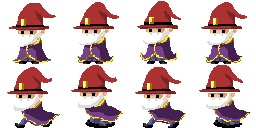
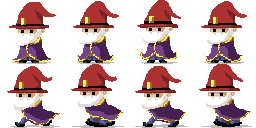
Added Mouse tracking. Updated some sprites.

diff --git a/src/main.c b/src/main.c
@@ -39,6 +39,7 @@ int main(int argc, char** argv) {
     /* Initialize everything */
     assert(al_init());                  /* Allegro environment */
     assert(al_install_keyboard());      /* Install Keyboard */
+    assert(al_install_mouse());         /* Install Mouse */
     assert(al_init_primitives_addon()); /* Initialize Primatives */
     assert(al_init_image_addon());      /* Initialize Image Library */
 
@@ -70,7 +71,15 @@ int main(int argc, char** argv) {
     unsigned char key[ALLEGRO_KEY_MAX];
     memset(key, 0, sizeof(key));
 
+    /* Mouse Stuff */
+    int mouseX = 0;
+    int mouseY = 0;
+    ALLEGRO_MOUSE_CURSOR* cursor  = al_create_mouse_cursor(al_load_bitmap("../assets/crosshair.png"), 0, 0);
+    al_set_mouse_cursor(disp, cursor);
+
+
     al_register_event_source(queue, al_get_keyboard_event_source());
+    al_register_event_source(queue, al_get_mouse_event_source());
     al_register_event_source(queue, al_get_display_event_source(disp));
     al_register_event_source(queue, al_get_timer_event_source(timer));
 
@@ -155,6 +164,10 @@ int main(int argc, char** argv) {
 
                 redraw = true;
                 break;
+            case ALLEGRO_EVENT_MOUSE_AXES:
+                mouseX = event.mouse.x;
+                mouseY = event.mouse.y;
+                break;
             case ALLEGRO_EVENT_KEY_DOWN:
                  key[event.keyboard.keycode] = KEY_SEEN | KEY_RELEASED;
                  break;
@@ -170,12 +183,14 @@ int main(int argc, char** argv) {
             break;
 
         if(redraw && al_is_event_queue_empty(queue)) {
+            al_clear_to_color(al_map_rgb(0, 0, 0));
             show_room(current_room);
             show_player(&p, delta_time);
             if(show_dev_tools) {
               al_draw_textf(font, al_map_rgb(0, 0, 0), 0, dev_tool_pos * 0, 0, "Player position. x: %d, y: %d", p.pos_x, p.pos_y);
               al_draw_textf(font, al_map_rgb(0, 0, 0), 0, dev_tool_pos * 1, 0, "Current Room: %s", current_room->id);
               al_draw_textf(font, al_map_rgb(0, 0, 0), 0, dev_tool_pos * 2, 0, "FPS: %f", fps);
+              al_draw_textf(font, al_map_rgb(0, 0, 0), 0, dev_tool_pos * 3, 0, "Mouse Position: %d, %d", mouseX, mouseY);
             }
             al_flip_display();
 

diff --git a/include/terrain.h b/include/terrain.h
@@ -8,7 +8,7 @@
 #define ID_SIZE         8
 #define IMAGE_PATH_SIZE 23
 
-#define DOOR_HEIGHT (2 * PLAYER_HEIGHT)
+#define DOOR_HEIGHT 128
 #define DOOR_WIDTH  32
 
 #define MAX_ROWS 20
